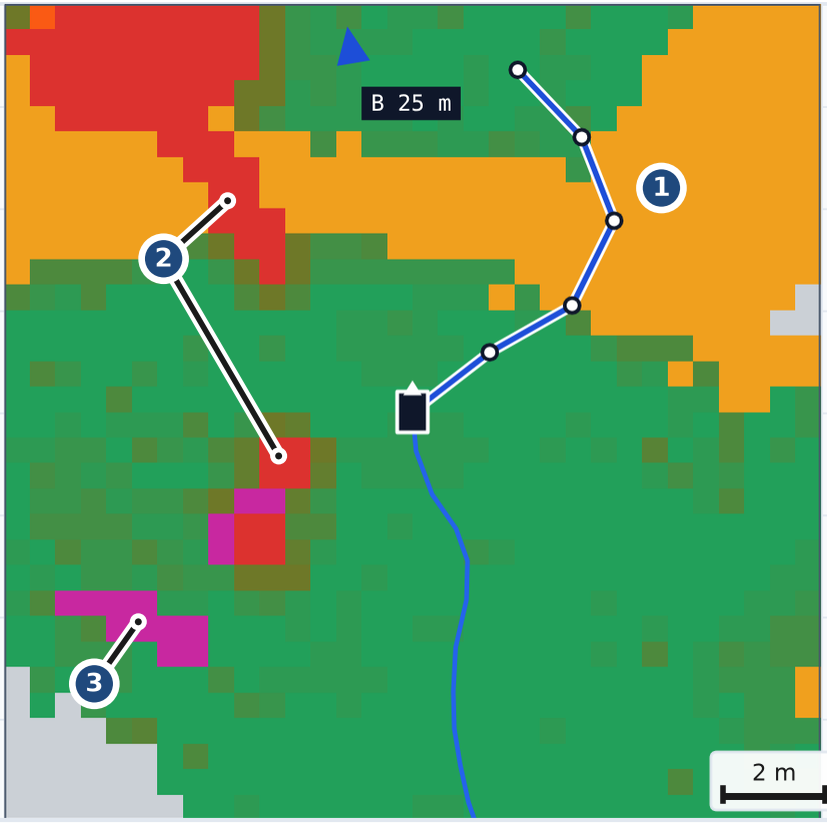
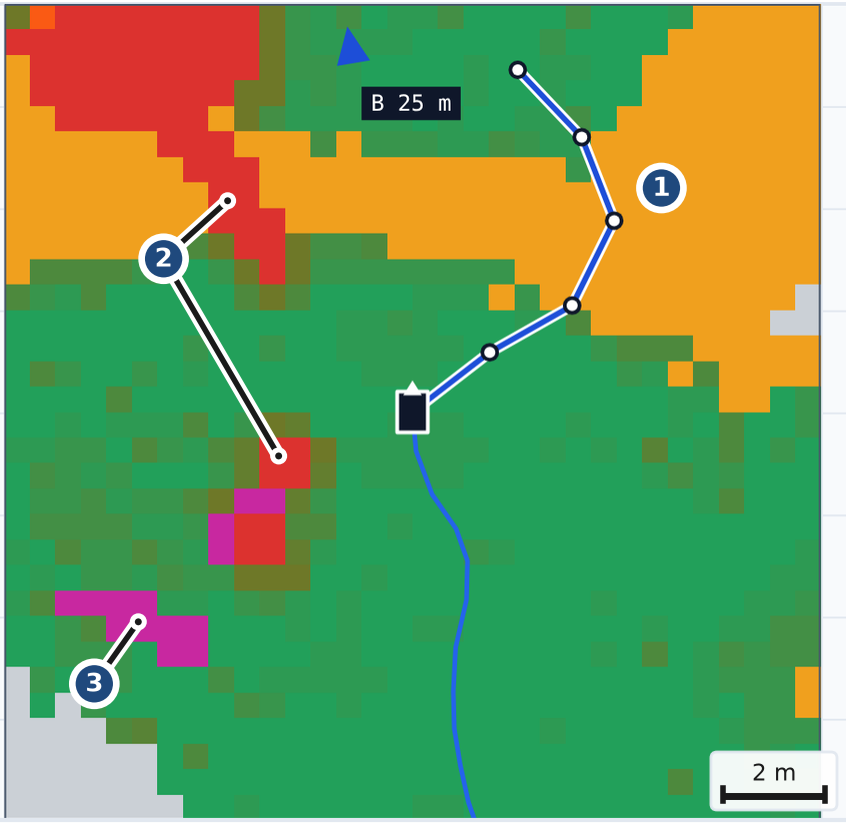
Console slot crop: include the whole scale bar
The scale-bar box overhangs the costmap raster in the console render, so the
crop now extends to the bar's end cap plus the box margin.

Claude-Session: https://claude.ai/code/session_01WyKCCAJ7MKHNqea3W8Cc6h

diff --git a/deck_assets/final/src/slot_crops.py b/deck_assets/final/src/slot_crops.py
@@ -6,6 +6,7 @@ Run from the repo root after the source figures are regenerated:
 run_map_pair_slot.png  the two map panels of run_map_pair.png (titles, subtitles, maps), without the
                        under-panel text, legend and footnotes; the slide's Fig. 3 caption carries the
                        symbol key, the numbers and the selection disclosure. Same pixels, no resampling.
+console_costmap_slot.png  the costmap raster of console_1.png with its callouts and the whole scale bar.
 """
 from __future__ import annotations
 
@@ -48,13 +49,31 @@ def run_map_pair_slot() -> Path:
 SAT_MIN = 60  # max-min channel spread of a costmap cell colour (the page chrome is near-grey)
 SAT_ROW_FRAC = 0.5  # a costmap row is mostly coloured cells
 CROP_PAD_PX = 6
+BAR_LUMA_MAX = 80  # the scale bar is drawn in near-black ink
+BAR_SEARCH_PX = 80  # the scale-bar box sits in the raster's bottom rows and may overhang its right edge
+BAR_BOX_PAD_PX = 12  # the box's white margin right of the bar's end cap
+
+
+def scale_bar_right(gray: np.ndarray, x1: int, y1: int) -> int:
+    """Rightmost dark pixel of the scale bar in the raster's bottom rows, searching just past column x1."""
+    band = gray[max(0, y1 - BAR_SEARCH_PX):y1 + 1, x1:min(gray.shape[1], x1 + BAR_SEARCH_PX)]
+    cols = np.where((band < BAR_LUMA_MAX).any(0))[0]
+    if not cols.size or cols[0] > 2:
+        return x1
+    end = int(cols[0])
+    for c in cols[1:]:  # the bar runs on from x1; stop at the first gap (the next panel's ink is further right)
+        if c - end > 2:
+            break
+        end = int(c)
+    return x1 + end + BAR_BOX_PAD_PX
 
 
 def console_costmap_slot() -> Path:
     """console_costmap_slot.png: the costmap raster of console_1.png with its numbered callouts.
 
     The raster is the longest run of rows whose left-half pixels are mostly saturated colour
-    (the green mode banner above it is a shorter run); columns likewise.
+    (the green mode banner above it is a shorter run); columns likewise. The right edge is widened to
+    take in the scale bar, whose box overhangs the raster.
     """
     src = OUT / "console_1.png"
     im = Image.open(src).convert("RGB")
@@ -72,6 +91,7 @@ def console_costmap_slot() -> Path:
     y0, y1 = max(runs, key=lambda r: r[1] - r[0])
     cols = np.where(sat[y0:y1 + 1, :half].mean(0) > SAT_ROW_FRAC)[0]
     x0, x1 = int(cols.min()), int(cols.max())
+    x1 = max(x1, scale_bar_right(np.asarray(im.convert("L")).astype(int), x1, y1))
     out = OUT / "console_costmap_slot.png"
     im.crop((max(0, x0 - CROP_PAD_PX), max(0, y0 - CROP_PAD_PX), x1 + 1 + CROP_PAD_PX, y1 + 1 + CROP_PAD_PX)).save(out)
     LOG.info("wrote %s %s (raster x %d..%d, y %d..%d)", out, Image.open(out).size, x0, x1, y0, y1)
